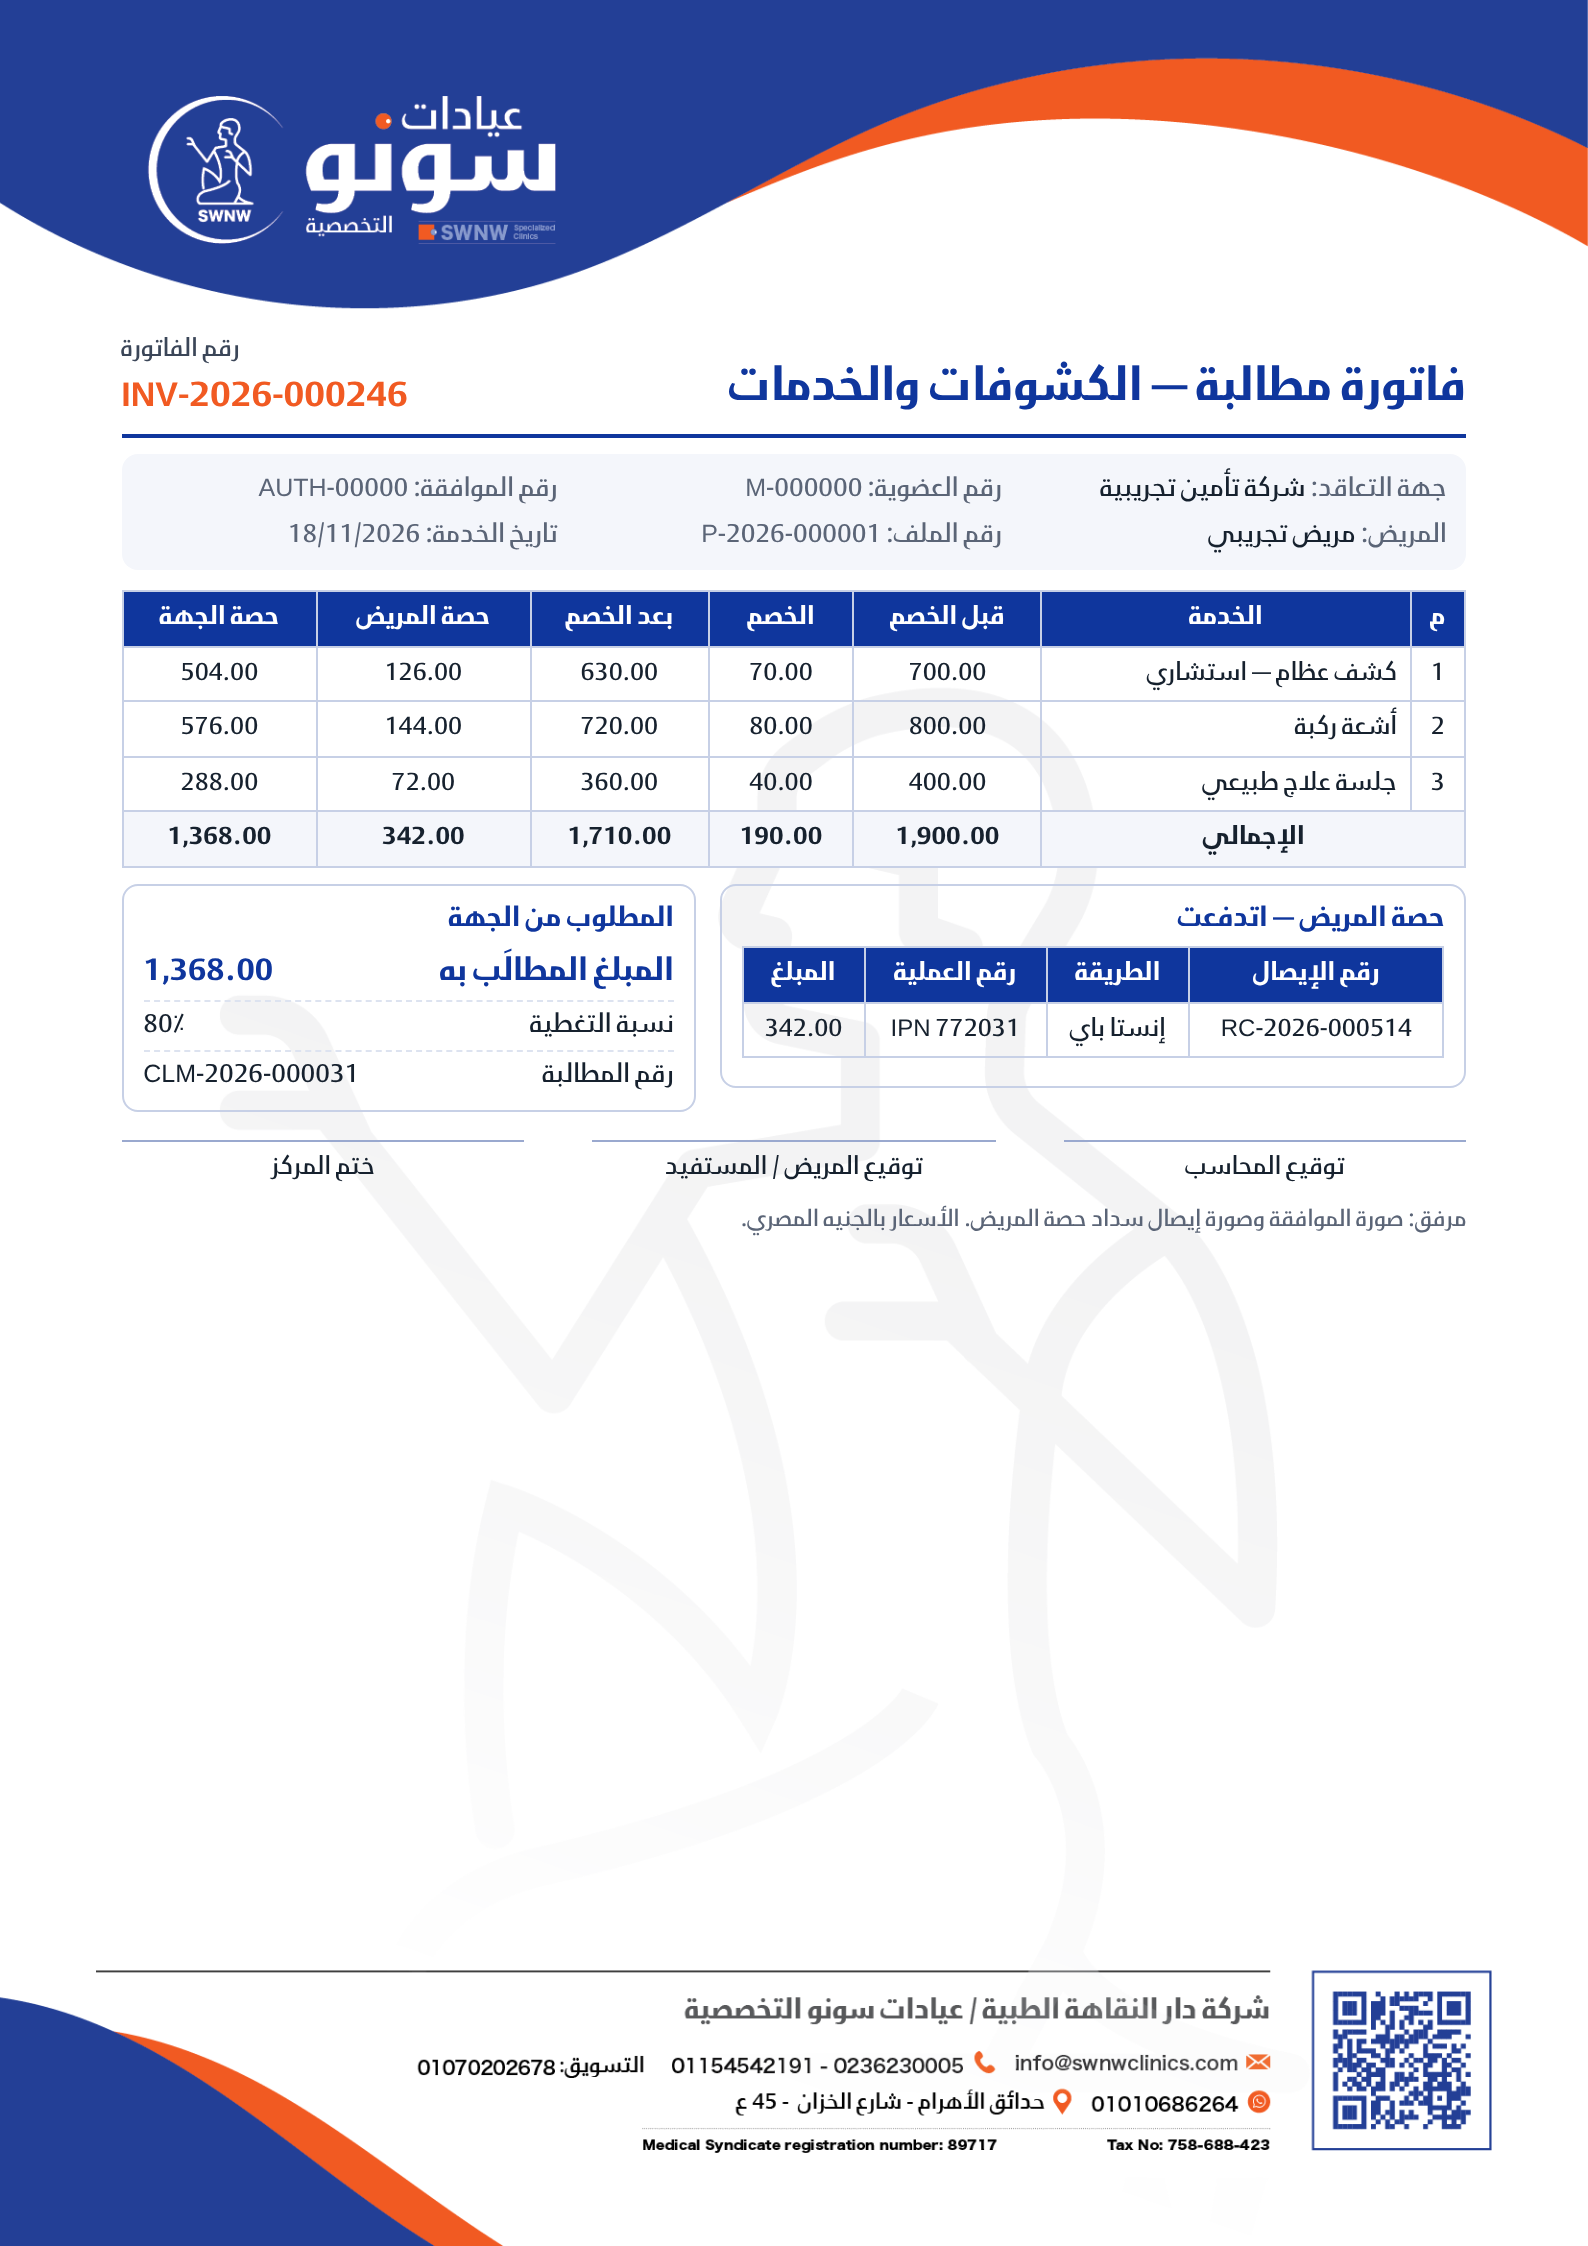
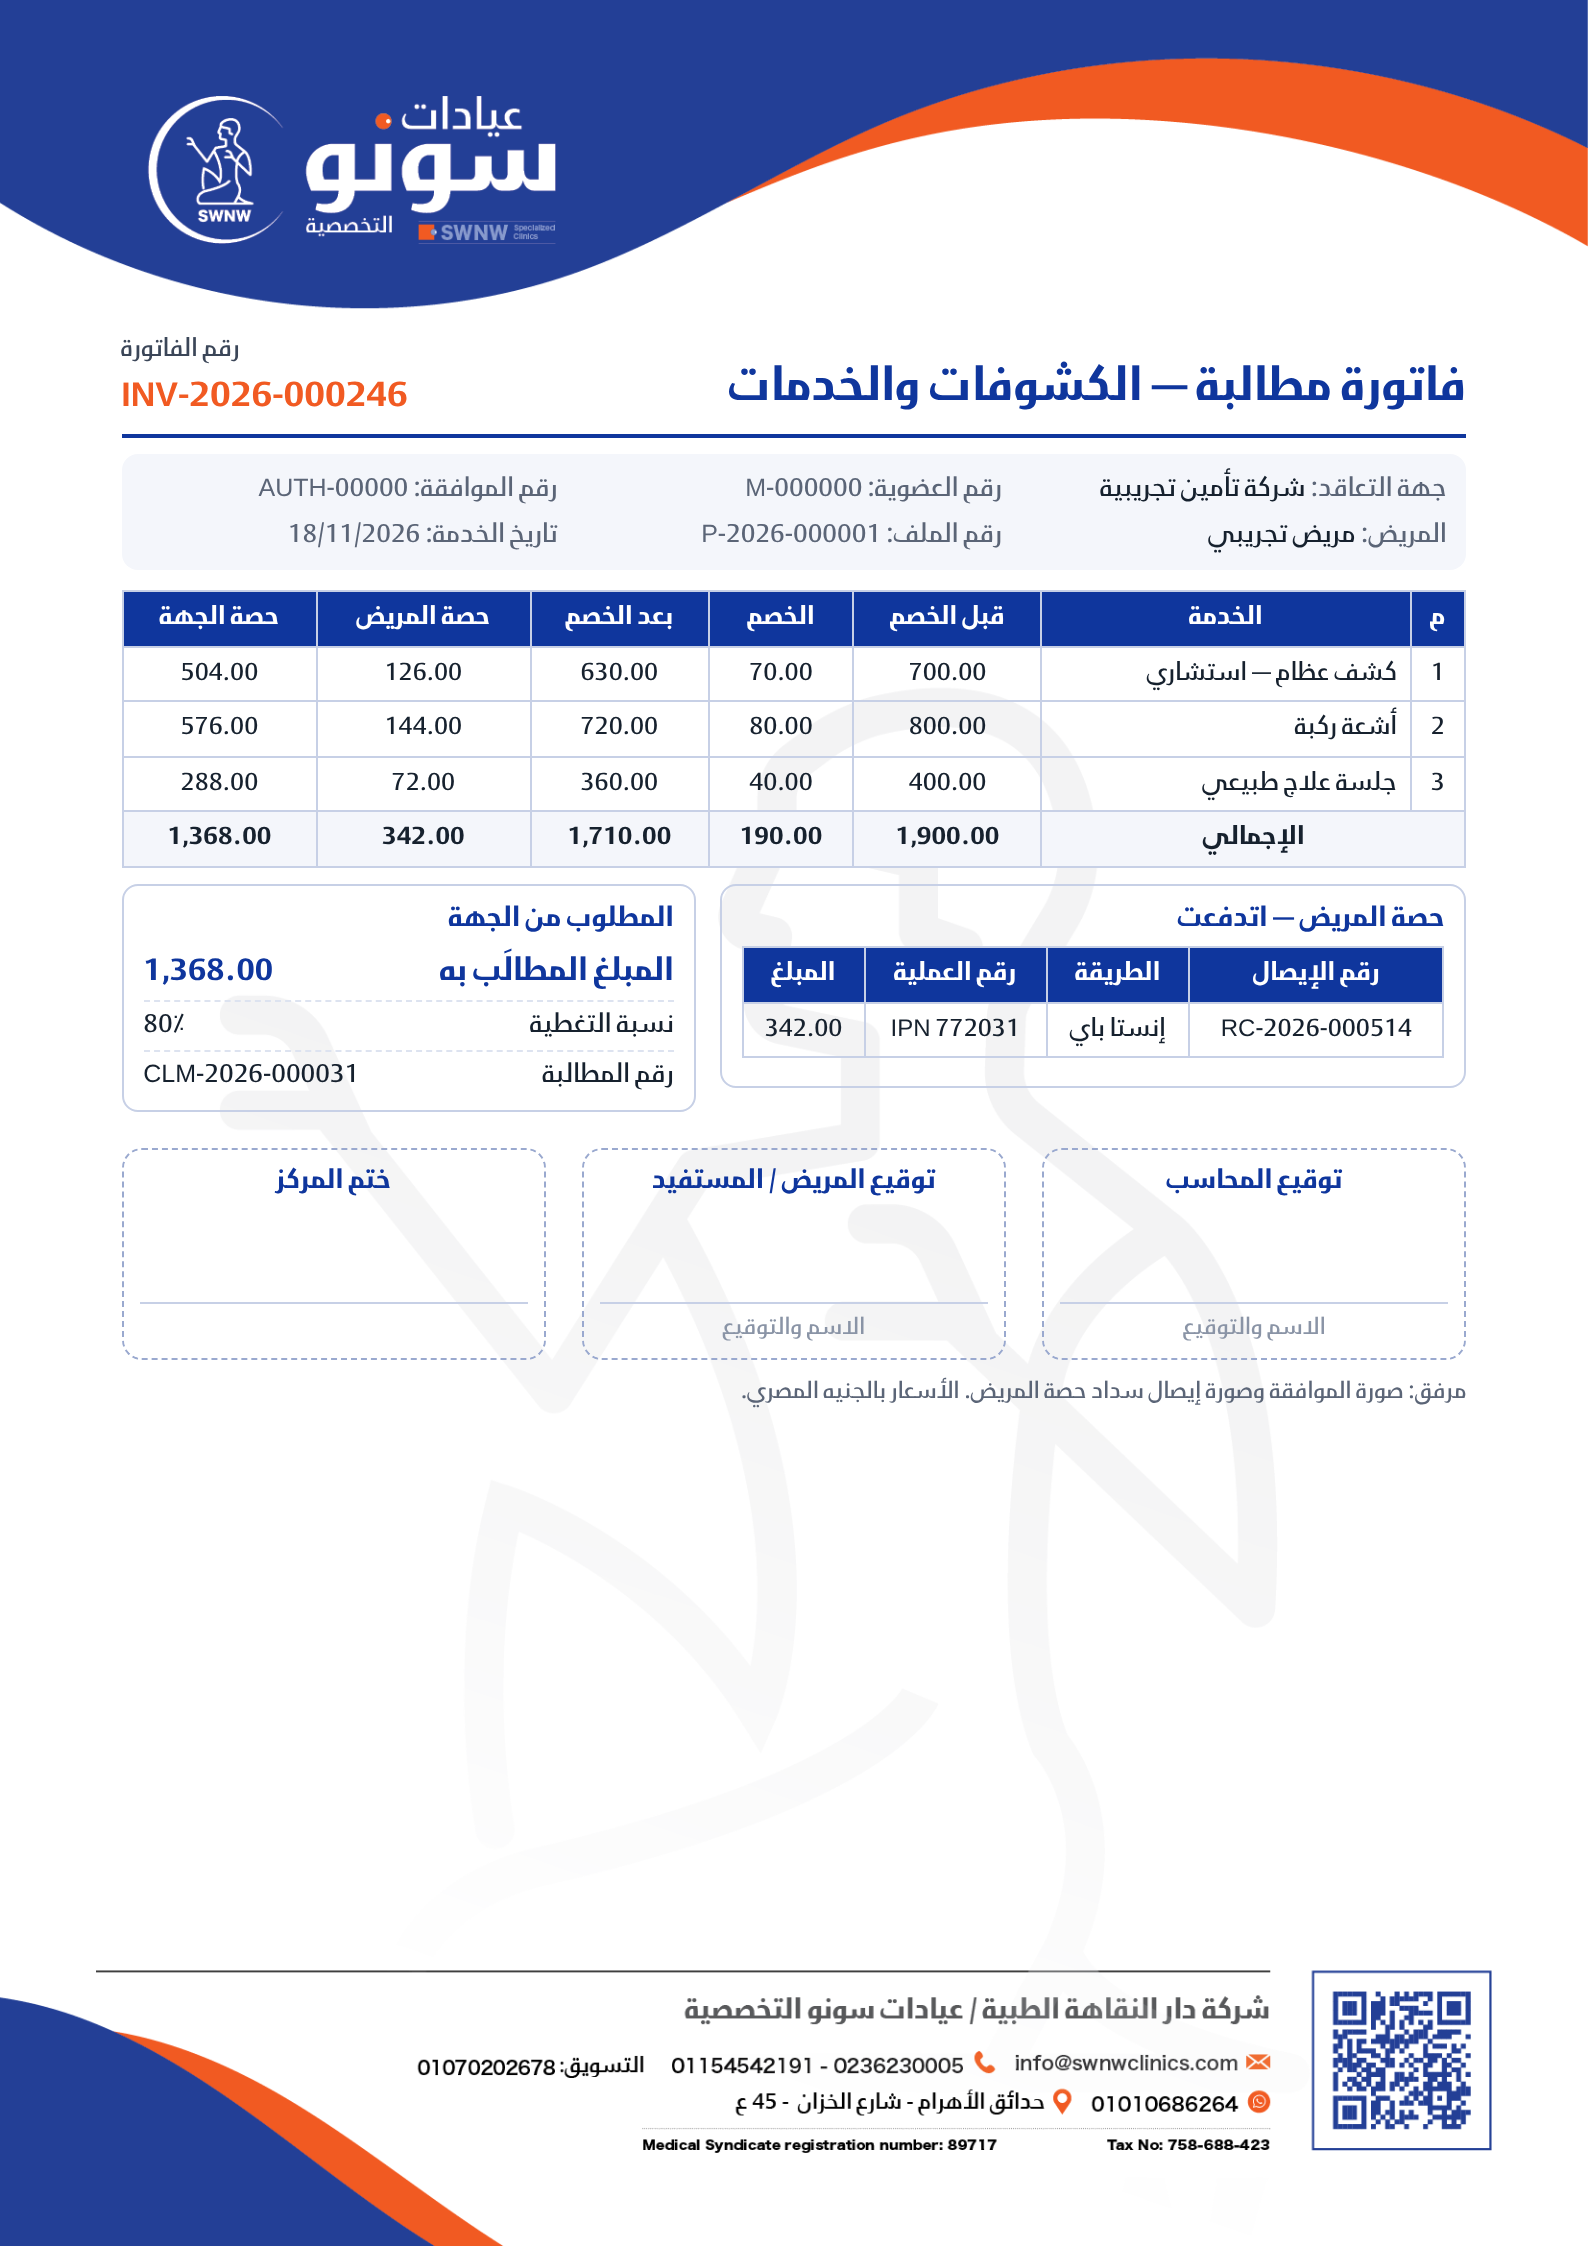
Invoice mockups: larger signature and stamp boxes
Claude-Session: https://claude.ai/code/session_01UqVZHa1WNN8bEGUYBvTA8M

diff --git a/docs/ui-references/mockups/_invoice-common.css b/docs/ui-references/mockups/_invoice-common.css
@@ -20,6 +20,6 @@ th{background:#0F369D;color:#fff;font-weight:700}td.n{text-align:right}
 .kv{display:flex;justify-content:space-between;padding:2px 0;border-bottom:1px dashed #dde3f0}.kv:last-child{border-bottom:0}
 .kv.big{font-size:15px;font-weight:700;color:#0F369D}.kv.due{color:#2F7D5C;font-weight:700}
 .ltr{direction:ltr;unicode-bidi:isolate}
-.sig{display:flex;justify-content:space-between;margin-top:14px;font-size:12px}.sig div{width:30%;text-align:center;border-top:1px solid #9aa9cf;padding-top:4px}
+.sig{display:grid;grid-template-columns:repeat(3,1fr);gap:18px;margin-top:18px;font-size:12.5px}.sig div{height:92px;border:1px dashed #9aa9cf;border-radius:10px;padding:6px 8px;display:flex;flex-direction:column;justify-content:space-between;text-align:center;color:#3B4658}.sig div b{color:#0F369D}.sig div i{font-style:normal;font-size:11px;color:#8a94a6;border-top:1px solid #c7d0e6;padding-top:4px}
 .note{font-size:11px;color:#5b6577;margin-top:8px}
 .tag{display:inline-block;padding:0 6px;border-radius:9px;font-size:11px;background:#e6f2ec;color:#2F7D5C}

diff --git a/docs/ui-references/mockups/patient-invoice.html b/docs/ui-references/mockups/patient-invoice.html
@@ -22,6 +22,6 @@
    <div class="kv"><span>المدفوع</span><span>1,750.00</span></div>
    <div class="kv due"><span>المتبقي</span><span>0.00 <span class="tag">مسدّدة بالكامل</span></span></div></div>
  </div>
- <div class="sig"><div>توقيع الموظف — دينا</div><div>توقيع المريض</div><div>ختم المركز</div></div>
+ <div class="sig"><div><b>توقيع الموظف</b><i>دينا — الوردية dina</i></div><div><b>توقيع المريض</b><i>الاسم والتوقيع</i></div><div><b>ختم المركز</b><i>&nbsp;</i></div></div>
  <div class="note">الأسعار بالجنيه المصري. اتطبعت من الداشبورد يوم 18/11/2026 الساعة 09:42 م — الوردية: dina.</div>
 </div></section></body></html>

diff --git a/docs/ui-references/mockups/claim-invoice.html b/docs/ui-references/mockups/claim-invoice.html
@@ -19,6 +19,6 @@
    <div class="kv"><span>نسبة التغطية</span><span>80٪</span></div>
    <div class="kv"><span>رقم المطالبة</span><span class="ltr">CLM-2026-000031</span></div></div>
  </div>
- <div class="sig"><div>توقيع المحاسب</div><div>توقيع المريض / المستفيد</div><div>ختم المركز</div></div>
+ <div class="sig"><div><b>توقيع المحاسب</b><i>الاسم والتوقيع</i></div><div><b>توقيع المريض / المستفيد</b><i>الاسم والتوقيع</i></div><div><b>ختم المركز</b><i>&nbsp;</i></div></div>
  <div class="note">مرفق: صورة الموافقة وصورة إيصال سداد حصة المريض. الأسعار بالجنيه المصري.</div>
 </div></section></body></html>
